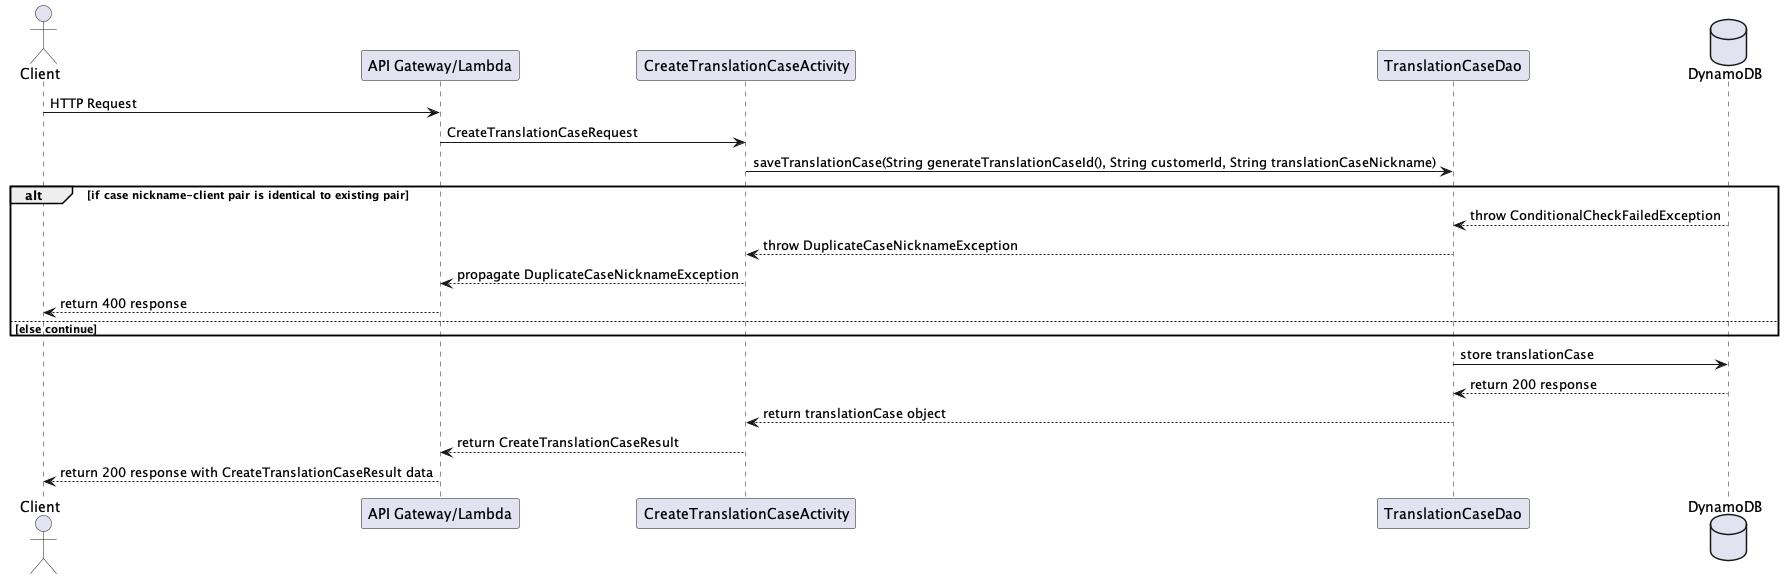
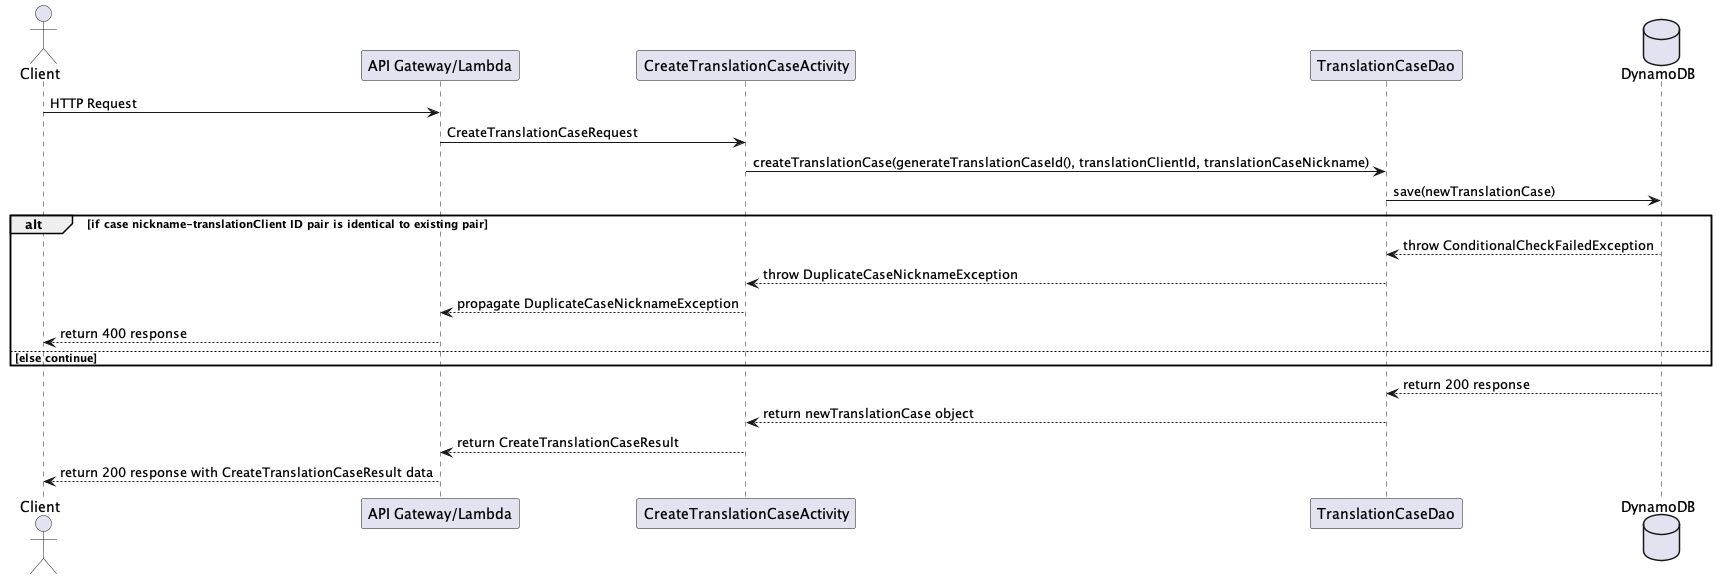
Completed design document

diff --git a/resources/design-document.md b/resources/design-document.md
@@ -14,7 +14,7 @@ translator to improve productivity.
 _List the most important questions you have about your design, or things that you are still debating internally that 
 you might like help working through._
 
-1. I would like to soft-delete clients and translation cases - would I still use DELETE in the endpoint? 
+1. I would like to soft-delete translation clients and translation cases - would I still use DELETE in the endpoint? 
 2. 
 3.
 
@@ -24,8 +24,8 @@ you might like help working through._
 
 U1. As a customer, I want to be able to view details about a translation case in a separate webpage.
 
-U2. As a customer, I want to be able to create a new translation case and either associate it with an existing client 
-  or create a new client at the same time.
+U2. As a customer, I want to be able to create a new translation case and either associate it with an existing 
+  translation client or create a new translation client at the same time.
 
 U3. As a customer, I want to be able to store relevant details about my translation case, such as cost per character, 
   total payment, and whether the case is still open.
@@ -34,43 +34,39 @@ U4. As a customer, I want to update existing translation cases with details abou
   dates, times).
 
 
-#### Clients
+#### Translation Clients
 
-U5. As a customer, I want to be able to view details about a client in a separate webpage.
+U5. As a customer, I want to be able to view details about a translation client in a separate webpage.
 
-U6. As a customer, I want to be able to edit client info.
+U6. As a customer, I want to be able to edit translation client info.
 
-U7. As a customer, I want to be able to add a new translation case from the client detail page.
+U7. As a customer, I want to be able to add a new translation case from the translation client detail page.
 
-U8. As a customer, I want to see a clickable list of all translation cases associated with a client, sorted by most 
-  recent activity.
+U8. As a customer, I want to see a clickable list of all translation cases associated with a translation client, 
+  sorted by most recent activity.
 
-U9. As a customer, I want to see a clickable list of all translation cases associated with a client, sorted 
-reverse-chronologically by creation date.  
+U9. As a customer, I want to see a clickable list of all translation cases associated with a translation client, sorted 
+  reverse-chronologically by creation date.  
 
 #### Home Page
 
 U10. As a customer, I want to see a list of open translation cases on the home page, sorted by soonest deadline.
 
-U10. As a customer, I want to see a list of up to 10 clients on the home page, sorted by most recent activity.
+U10. As a customer, I want to see a list of up to 10 translation clients on the home page, sorted by most recent activity.
 
 U11. As a customer, I want to add a new translation case from the home page.
 
-U12. As a customer, I want to search for a client from the home page.
+U12. As a customer, I want to search for a translation client from the home page.
 
 U13. As a customer, I want to search for a translation case from the home page.
 
-U14. As a customer, I want to click a link on the home page to see a clickable list of all clients sorted 
-  alphabetically.
+U14. As a customer, I want to click a link on the home page to see a clickable list of all translation clients sorted alphabetically.
 
-U15. As a customer, I want to click a link on the home page to see a clickable list of all clients sorted by most   
-  recent activity.
+U15. As a customer, I want to click a link on the home page to see a clickable list of all translation clients sorted by most recent activity.
 
-U16. As a customer, I want to click a link on the home page to see a clickable list of all translation cases associated
-  with a certain type of project.
+U16. As a customer, I want to click a link on the home page to see a clickable list of all translation cases associated with a certain type of project.
 
-U17. As a customer, I want to click a link on the home page to see a clickable list of all translation cases sorted by
-  most recent activity.
+U17. As a customer, I want to click a link on the home page to see a clickable list of all translation cases sorted by most recent activity.
 
 
 ### Stretch Goals
@@ -79,8 +75,7 @@ U17. As a customer, I want to click a link on the home page to see a clickable l
 
 U18. As a customer, I want to create a new estimate from the home page.
 
-U19. As a customer, I want to create a new client and either associate it with an existing client or create a new 
-  client at the same time.
+U19. As a customer, I want to create a new translation client and either associate it with an existing translation client or create a new client at the same time.
 
 U20. As a customer, I want to create new case estimates with estimated time needed for completion.
 
@@ -101,30 +96,30 @@ U23. As a customer, I want to see useful statistics about my translation habits 
 
 #### Translation Cases
 * Create a new translation case that contains useful details
-  * Must assign an existing client or create a new client during new translation case creation
+  * Must assign an existing translation client or create a new translation client during new translation case creation
 * Retrieve information about existing translation cases
 * Retrieve a list of all translation cases, sorted by project type
 * Retrieve a list of all translation cases, sorted by most recent activity
 * Update progress on existing translation cases
 * Archive (soft-delete) translation cases
 
-#### Clients
-* Create a new client (must be linked to a new translation case)
-* Retrieve client information
-* Retrieve a list of all clients, sorted alphabetically
-* Retrieve a list of all clients, sorted by most recent activity
-* Retrieve all translation cases associated with a client
-* Update information about the client
-* Archive (soft-delete) a client
+#### Translation Clients
+* Create a new translation client (must be linked to a new translation case)
+* Retrieve translation client information
+* Retrieve a list of all translation clients, sorted alphabetically
+* Retrieve a list of all translation clients, sorted by most recent activity
+* Retrieve all translation cases associated with a translation client
+* Update information about the translation client
+* Archive (soft-delete) a translation client
 
 ### Stretch Goals
 
 #### Estimates
 * Create a new estimate
-* Save an estimate by assigning it to an existing client or by creating a new client
+* Save an estimate by assigning it to an existing translation client or by creating a new translation client
 * Retrieve past estimates
 * Retrieve a list of all estimates, sorted by project type
-* Retrieve a list of all estimates, sorted by client
+* Retrieve a list of all estimates, sorted by translation client
 * Link an existing estimate to a new translation case
 * Update the estimate with notes on negotiation or other details (saved estimate is read-only, notes can be edited)
 * Archive (soft-delete) an estimate
@@ -135,7 +130,7 @@ U23. As a customer, I want to see useful statistics about my translation habits 
   * Most productive time of day for each project type
   * Largest project type by case count
   * Total translation time since beginning of year / month
-  * Clients with the fastest payment turnaround time
+  * Translation clients with the fastest payment turnaround time
   * etc.
 
 
@@ -149,18 +144,19 @@ U23. As a customer, I want to see useful statistics about my translation habits 
 # 5. Proposed Architecture Overview
 
 This initial iteration will provide the minimum loveable product (MLP) including creating, retrieving, updating and 
-  archiving translation cases and clients, as well as sorting these objects in useful ways.
+  archiving translation cases and translation clients, as well as sorting these objects in useful ways.
 
 I will use API Gateway and Lambda to create seven endpoints (`GetTranslationCase`, `CreateTranslationCase`, 
-`UpdateTranslationCase`, `ArchiveTranslationCase`, `GetClient`, `UpdateClient`, `ArchiveClient`) that will handle the 
-creation, update, retrieval and archiving of clients and translation cases.
+`UpdateTranslationCase`, `ArchiveTranslationCase`, `GetTranslationClient`, `UpdateTranslationClient`, 
+  `ArchiveTranslationClient`) that will handle the creation, update, retrieval and archiving of translation clients 
+  and translation cases.
 
-I will store the clients and translation cases in tables in DynamoDB.
+I will store the translation clients and translation cases in tables in DynamoDB.
 
-TranslationTracker will also provide a web interface for users to manage their translation cases and clients. A main 
-  page providing lists of the translation cases with the soonest upcoming deadlines and clients with most recent 
-  activity will allow creation of new translation cases and link off to pages per-client and per-translation to update 
-  translation progress and other details.
+TranslationTracker will also provide a web interface for users to manage their translation cases and translation 
+  clients. A main page providing lists of the translation cases with the soonest upcoming deadlines and translation 
+  clients with most recent activity will allow creation of new translation cases and link off to pages per-translation 
+  client and per-translation case to update translation progress and other details.
 
 # 6. API
 
@@ -169,8 +165,8 @@ TranslationTracker will also provide a web interface for users to manage their t
 ```
 // TranslationCaseModel
 
-String clientId;
 String translationCaseId;
+String translationClientId;
 String sourceTextTitle;
 String sourceTextAuthor;
 String translatedTitle;
@@ -192,11 +188,11 @@ Map<String, Map<String, String>> progressLog;
 Double totalWorkingHours;
 Double wordsPerHour;
 
-// ClientModel
+// TranslationClientModel
 
-String clientId;
-String clientName;
-String clientType;
+String translationClientId;
+String translationClientName;
+String translationClientType;
 Map<String, Map<String, String>> translationCaseHistory;
 Map<String, Map<String, String>> paymentHistory;
 Map<String, String> outstandingPayments;
@@ -208,9 +204,9 @@ Map<String, String> outstandingPayments;
 // EstimateModel
 
 String estimateId;
-String clientId;
-String clientName;
-String clientType;
+String translationClientId;
+String translationClientName;
+String translationClientType;
 String sourceTextTitle;
 String sourceTextAuthor;
 Double estimatedRate;
@@ -228,66 +224,112 @@ Double wordsPerHourEstimate;
 ## 6.2. Get Translation Case Endpoint
 
 * Accepts `GET` requests to `/cases/:id`
-* Accepts a `TranslationCase` ID and returns the corresponding `TranslationCaseModel`.
-    * If the given `TranslationCase` ID is not found, will throw a
+* Accepts a translation case ID and returns the corresponding `TranslationCaseModel`.
+    * If the given translation case ID is not found, will throw a
       `TranslationCaseNotFoundException`
 
-<img src="images/GetTranslationCase-Sequence.png" width="70%" alt="Get Translation Case Endpoint Sequence Diagram"/>
+<img src="images/GetTranslationCase-Sequence.png" width="100%" alt="Get Translation Case Endpoint Sequence Diagram"/>
 
 ## 6.3 Create Translation Case Endpoint
 
 * Accepts `POST` requests to `/cases`
-* Accepts data to create a new `TranslationCase` with a provided case nickname, a given `Client`
-  ID, with all other values being optional. 
-* Returns the new `TranslationCase`, including a unique `TranslationCase` ID assigned by Translation Tracker.
-  * If the case nickname-client pair is identical to an already-existing pair, will throw a 
+* Accepts data to create a new `TranslationCase` with a provided case nickname, a given translation case ID, with all 
+  other values being optional. 
+* Returns the new `TranslationCase`, including a unique translation case ID assigned by Translation Tracker.
+  * If the case-nickname translation-client-id pair is identical to an already-existing pair, will throw a 
     `DuplicateCaseNicknameException`.
 
-<img src="images/CreateTranslationCase-Sequence.png" width="70%" alt="Create Translation Case Endpoint Sequence Diagram"/>
+<img src="images/CreateTranslationCase-Sequence.png" width="100%" alt="Create Translation Case Endpoint Sequence Diagram"/>
 
 ## 6.4 Update Translation Case Endpoint
 
 * Accepts `PUT` requests to `/cases/:id`
-* Accepts data to update a `TranslationCase` including a `TranslationCase` ID, and the update values. Returns the updated
+* Accepts data to update a `TranslationCase` including a translation case ID, and the update values. Returns the updated
   `TranslationCase`.
-    * If the `TranslationCase` ID is not found, will throw a `TranslationCaseNotFoundException`
+    * If the given translation case ID is not found, will throw a `TranslationCaseNotFoundException`
+
+<img src="images/UpdateTranslationCase-Sequence.png" width="100%" alt="Update Translation Case Endpoint Sequence Diagram"/>
 
 ## 6.5 Archive Translation Case Endpoint
 
 * Accepts `DELETE` requests to `/cases/:id`
-* Accepts a `TranslationCase` ID and archives the specified `TranslationCase`.
-  * If the `TranslationCase` ID is not found, will throw a `TranslationCaseNotFoundException`
+* Accepts a translation case ID and archives the specified `TranslationCase`.
+  * If the translation case ID is not found, will throw a `TranslationCaseNotFoundException`
 
-## 6.6 Get Client Endpoint
+<img src="images/ArchiveTranslationCase-Sequence.png" width="100%" alt="Archive Translation Case Endpoint Sequence Diagram"/>
 
-* Accepts `GET` requests to `/clients/:id`
-* Accepts a `Client` ID and returns the corresponding `ClientModel`.
-  * If the given `Client` ID is not found, will throw a `ClientNotFoundException`
+## 6.6 Get Translation Client Endpoint
 
-## 6.7 Update Client Endpoint
+* Accepts `GET` requests to `/translationclients/:id`
+* Accepts a translation client ID and returns the corresponding `TranslationClientModel`.
+  * If the given translation client ID is not found, will throw a `TranslationClientNotFoundException`
 
-* Accepts `PUT` requests to `/clients/:id`
-* Accepts data to update a `Client` including a client ID, and the update values. Returns the updated
-  `Client`.
-  * If the client ID is not found, will throw a `ClientNotFoundException`
+<img src="images/GetTranslationClient-Sequence.png" width="100%" alt="Get Translation Client Endpoint Sequence Diagram"/>
 
-## 6.8 Archive Client Endpoint
+## 6.7 Update Translation Client Endpoint
 
-* Accepts `DELETE` requests to `/clients/:id`
-* Accepts a `Client` ID and archives the specified `Client`.
-  * If the `Client` ID is not found, will throw a `ClientNotFoundException`
+* Accepts `PUT` requests to `/translationclients/:id`
+* Accepts data to update a `TranslationClient` including a translation client ID, and the update values. Returns the updated
+  `TranslationClient`.
+  * If the client ID is not found, will throw a `TranslationClientNotFoundException`
 
+<img src="images/UpdateTranslationClient-Sequence.png" width="100%" alt="Update Translation Client Endpoint Sequence Diagram"/>
 
+## 6.8 Archive Translation Client Endpoint
 
-_Describe the behavior of the first endpoint you will build into your service API. This should include what data it requires, what data it returns, and how it will handle any known failure cases. You should also include a sequence diagram showing how a user interaction goes from user to website to service to database, and back. This first endpoint can serve as a template for subsequent endpoints. (If there is a significant difference on a subsequent endpoint, review that with your team before building it!)_
+* Accepts `DELETE` requests to `/translationclients/:id`
+* Accepts a translation client ID and archives the specified `TranslationClient`.
+  * If the translation client ID is not found, will throw a `TranslationClientNotFoundException`
 
-_(You should have a separate section for each of the endpoints you are expecting to build...)_
-
+<img src="images/ArchiveTranslationClient-Sequence.png" width="100%" alt="Archive Translation Client Endpoint Sequence Diagram"/>
 
 # 7. Tables
 
-_Define the DynamoDB tables you will need for the data your service will use. It may be helpful to first think of what objects your service will need, then translate that to a table structure, like with the *`Playlist` POJO* versus the `playlists` table in the Unit 3 project._
+### 7.1. `translationCases`
+```
+translationClientId // partition key, string
+translationCaseId // sort key, string 
+sourceTextTitle // string
+sourceTextAuthor // string
+translatedTitle // string
+caseNickname // string
+rate // number
+rateUnit // string
+count // number
+countUnit // string
+grossPayment // number
+taxRate // number
+projectType // string
+dueDate // string
+startDate // string
+endDate // string
+openCase // boolean
+casePaid // boolean
+rushJob // boolean
+progressLog // map
+totalWorkingHours // number
+wordsPerHour // number
+```
+
+### 7.2. `clients`
+```
+translationClientId // partition key, string
+translationClientName // string
+translationClientType // string
+translationCaseHistory // map
+paymentHistory // map
+outstandingPayments // map
+```
+
+
 
 # 8. Pages
 
-_Include mock-ups of the web pages you expect to build. These can be as sophisticated as mockups/wireframes using drawing software, or as simple as hand-drawn pictures that represent the key customer-facing components of the pages. It should be clear what the interactions will be on the page, especially where customers enter and submit data. You may want to accompany the mockups with some description of behaviors of the page (e.g. “When customer submits the submit-dog-photo button, the customer is sent to the dog detail page”)_
+### 8.1 Home Page
+<img src="images/HomePageMockup.png" width="100%" alt="Home page mockup"/>
+
+### 8.2 Translation Case Detail Page
+<img src="images/TranslationCaseMockup.png" width="100%" alt="Translation case detail page mockup"/>
+
+### 8.2 Translation Client Detail Page
+<img src="images/TranslationClientDetailPageMockup.png" width="100%" alt="Translation client detail page mockup"/>
